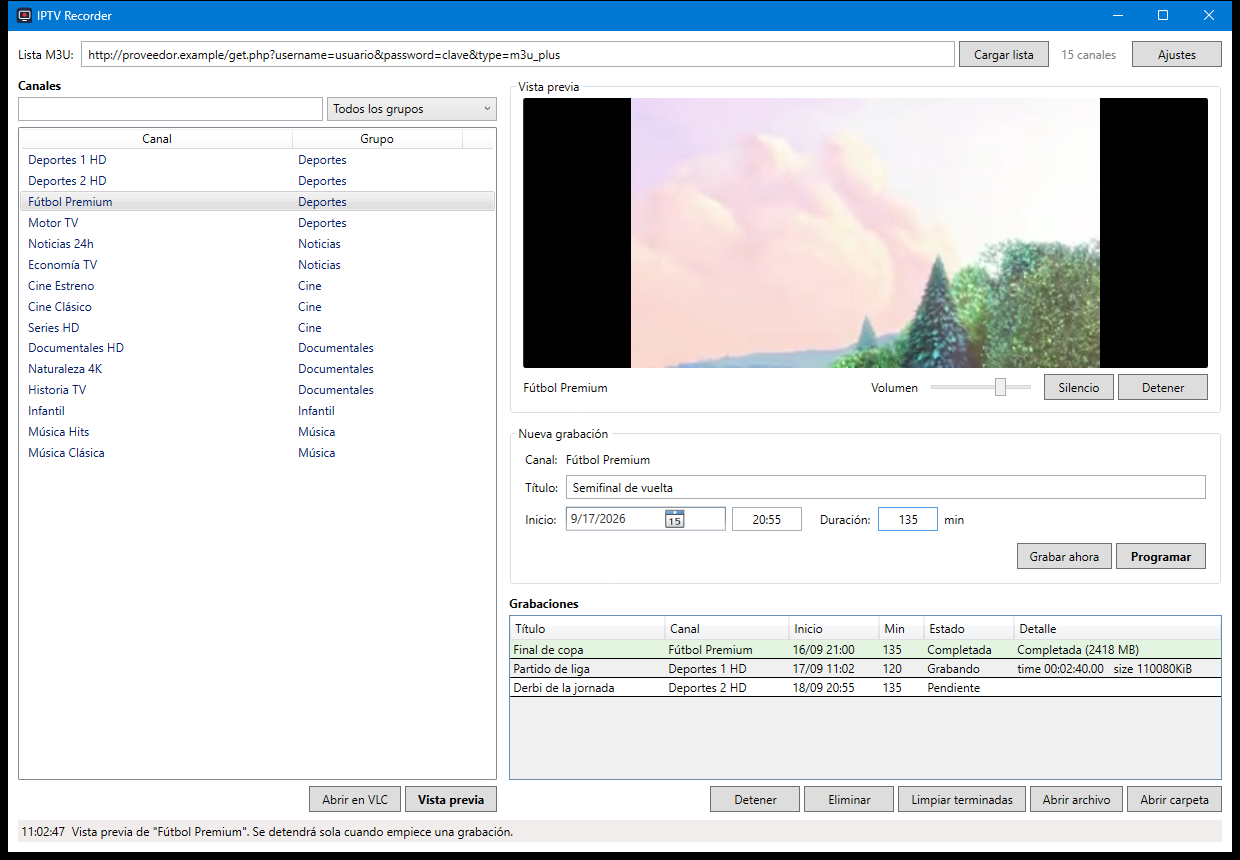
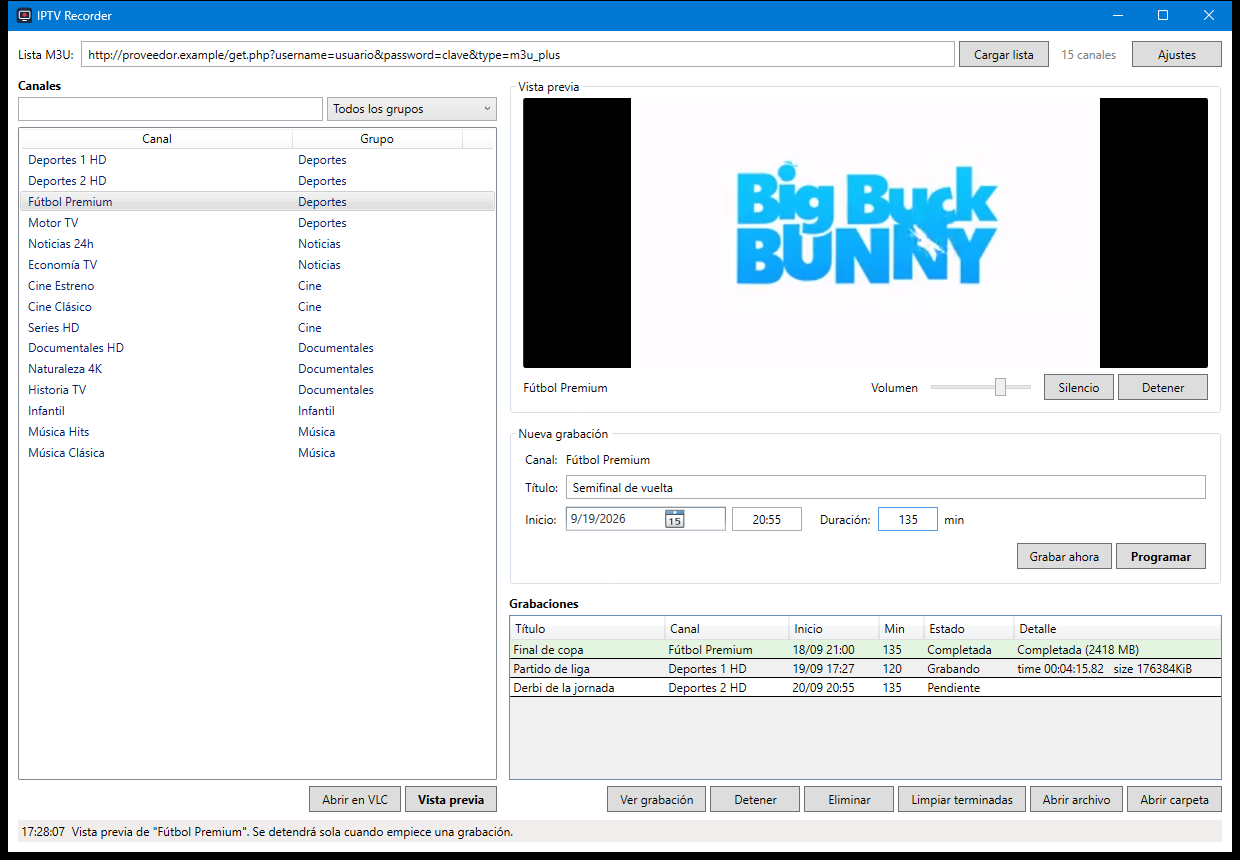
Record past the scheduled end time
Matches run long. A new end margin, 10 minutes by default, is added to the
requested duration when computing how long ffmpeg records, so the duration
the user types stays the length of the event. Scheduling now reports the
real stop time in the status bar.

Screenshots refreshed: they predated the watch-recording button.

diff --git a/Strings/Strings.es.xaml b/Strings/Strings.es.xaml
@@ -71,6 +71,7 @@
     <sys:String x:Key="Msg_BadDateTime">Indica fecha y hora válidas (por ejemplo 20:55).</sys:String>
     <sys:String x:Key="Msg_TimePassed">Esa hora ya ha pasado.</sys:String>
     <sys:String x:Key="Status_Scheduled">Programada "{0}" para el {1} a las {2}</sys:String>
+    <sys:String x:Key="Status_ScheduledTail">Programada "{0}" para el {1} a las {2}. Se grabará hasta las {3} por el margen final.</sys:String>
     <sys:String x:Key="Status_Stopping">Deteniendo grabación...</sys:String>
     <sys:String x:Key="Log_CancelledByUser">Cancelada por el usuario</sys:String>
     <sys:String x:Key="Msg_StopBeforeDelete">Detén la grabación antes de eliminarla.</sys:String>
@@ -125,12 +126,15 @@
     <sys:String x:Key="Set_UA_Tip">Algunos proveedores solo aceptan reproductores conocidos</sys:String>
     <sys:String x:Key="Set_Lead">Empezar antes (segundos):</sys:String>
     <sys:String x:Key="Set_Lead_Tip">Margen para que el stream enganche antes de que empiece el partido</sys:String>
+    <sys:String x:Key="Set_Tail">Margen al final (minutos):</sys:String>
+    <sys:String x:Key="Set_Tail_Tip">Minutos extra que se graban después de la hora de fin, para cubrir descuentos y prórrogas. 0 para desactivarlo.</sys:String>
+    <sys:String x:Key="Msg_TailRange">El margen final debe estar entre 0 y 120 minutos.</sys:String>
     <sys:String x:Key="Set_Language">Idioma:</sys:String>
     <sys:String x:Key="Lang_Auto">Automático (sistema)</sys:String>
     <sys:String x:Key="Set_Convert">Convertir a MP4 al terminar (sin recodificar, tarda unos segundos)</sys:String>
     <sys:String x:Key="Set_Tray">Al cerrar o minimizar, seguir en la bandeja del sistema</sys:String>
     <sys:String x:Key="Set_Autostart">Iniciar con Windows (en la bandeja)</sys:String>
-    <sys:String x:Key="Set_PreventSleep">Impedir la suspensión al grabar y despertar el equipo para las grabaciones programadas</sys:String>
+    <sys:String x:Key="Set_PreventSleep">Impedir la suspensión y despertar el equipo para grabar</sys:String>
     <sys:String x:Key="Set_PreventSleep_Tip">La pantalla puede apagarse igualmente. Despertar el equipo requiere que el plan de energía permita los temporizadores de reactivación.</sys:String>
     <sys:String x:Key="Btn_Cancel">Cancelar</sys:String>
     <sys:String x:Key="Btn_Save">Guardar</sys:String>

diff --git a/Strings/Strings.en.xaml b/Strings/Strings.en.xaml
@@ -71,6 +71,7 @@
     <sys:String x:Key="Msg_BadDateTime">Enter a valid date and time (for example 20:55).</sys:String>
     <sys:String x:Key="Msg_TimePassed">That time has already passed.</sys:String>
     <sys:String x:Key="Status_Scheduled">Scheduled "{0}" for {1} at {2}</sys:String>
+    <sys:String x:Key="Status_ScheduledTail">Scheduled "{0}" for {1} at {2}. It will record until {3} because of the end margin.</sys:String>
     <sys:String x:Key="Status_Stopping">Stopping recording...</sys:String>
     <sys:String x:Key="Log_CancelledByUser">Cancelled by the user</sys:String>
     <sys:String x:Key="Msg_StopBeforeDelete">Stop the recording before deleting it.</sys:String>
@@ -125,12 +126,15 @@
     <sys:String x:Key="Set_UA_Tip">Some providers only accept well-known players</sys:String>
     <sys:String x:Key="Set_Lead">Start early (seconds):</sys:String>
     <sys:String x:Key="Set_Lead_Tip">Margin so the stream connects before the match starts</sys:String>
+    <sys:String x:Key="Set_Tail">End margin (minutes):</sys:String>
+    <sys:String x:Key="Set_Tail_Tip">Extra minutes recorded after the end time, to cover stoppage time and extra time. 0 disables it.</sys:String>
+    <sys:String x:Key="Msg_TailRange">The end margin must be between 0 and 120 minutes.</sys:String>
     <sys:String x:Key="Set_Language">Language:</sys:String>
     <sys:String x:Key="Lang_Auto">Automatic (system)</sys:String>
     <sys:String x:Key="Set_Convert">Convert to MP4 when finished (no re-encoding, takes a few seconds)</sys:String>
     <sys:String x:Key="Set_Tray">Keep running in the system tray when closed or minimized</sys:String>
     <sys:String x:Key="Set_Autostart">Start with Windows (in the tray)</sys:String>
-    <sys:String x:Key="Set_PreventSleep">Prevent sleep while recording and wake the computer for scheduled recordings</sys:String>
+    <sys:String x:Key="Set_PreventSleep">Prevent sleep and wake the computer to record</sys:String>
     <sys:String x:Key="Set_PreventSleep_Tip">The screen can still turn off. Waking the computer requires wake timers to be allowed in the power plan.</sys:String>
     <sys:String x:Key="Btn_Cancel">Cancel</sys:String>
     <sys:String x:Key="Btn_Save">Save</sys:String>

diff --git a/SettingsWindow.xaml b/SettingsWindow.xaml
@@ -63,8 +63,11 @@
         <TextBox x:Name="UserAgentBox" Grid.Row="4" Grid.Column="1" Grid.ColumnSpan="2" ToolTip="{DynamicResource Set_UA_Tip}"/>
 
         <TextBlock Grid.Row="5" Text="{DynamicResource Set_Lead}"/>
-        <TextBox x:Name="LeadBox" Grid.Row="5" Grid.Column="1" Width="80" HorizontalAlignment="Left" TextAlignment="Center"
-                 ToolTip="{DynamicResource Set_Lead_Tip}"/>
+        <StackPanel Grid.Row="5" Grid.Column="1" Grid.ColumnSpan="2" Orientation="Horizontal">
+            <TextBox x:Name="LeadBox" Width="80" TextAlignment="Center" ToolTip="{DynamicResource Set_Lead_Tip}"/>
+            <TextBlock Text="{DynamicResource Set_Tail}" Margin="20,0,10,0"/>
+            <TextBox x:Name="TailBox" Width="80" TextAlignment="Center" ToolTip="{DynamicResource Set_Tail_Tip}"/>
+        </StackPanel>
 
         <CheckBox x:Name="ConvertBox" Grid.Row="6" Grid.Column="1" Grid.ColumnSpan="2" Content="{DynamicResource Set_Convert}"/>
         <CheckBox x:Name="TrayBox" Grid.Row="7" Grid.Column="1" Grid.ColumnSpan="2" Content="{DynamicResource Set_Tray}"/>

diff --git a/SettingsWindow.xaml.cs b/SettingsWindow.xaml.cs
@@ -30,6 +30,7 @@ public partial class SettingsWindow : Window
         OutputBox.Text = current.OutputFolder;
         UserAgentBox.Text = current.UserAgent;
         LeadBox.Text = current.LeadSeconds.ToString();
+        TailBox.Text = current.TailMinutes.ToString();
         ConvertBox.IsChecked = current.ConvertToMp4;
         TrayBox.IsChecked = current.MinimizeToTray;
         AutostartBox.IsChecked = current.StartWithWindows;
@@ -96,6 +97,12 @@ public partial class SettingsWindow : Window
 
         if (!int.TryParse(LeadBox.Text.Trim(), out var lead) || lead < 0 || lead > 600) { Warn("Msg_LeadRange"); return; }
 
+        if (!int.TryParse(TailBox.Text.Trim(), out var tail) || tail < 0 || tail > RecordingScheduler.MaxTailMinutes)
+        {
+            Warn("Msg_TailRange");
+            return;
+        }
+
         Result = new AppSettings
         {
             M3uUrl = Result.M3uUrl,
@@ -104,6 +111,7 @@ public partial class SettingsWindow : Window
             OutputFolder = output,
             UserAgent = UserAgentBox.Text.Trim().Length > 0 ? UserAgentBox.Text.Trim() : new AppSettings().UserAgent,
             LeadSeconds = lead,
+            TailMinutes = tail,
             ConvertToMp4 = ConvertBox.IsChecked == true,
             MinimizeToTray = TrayBox.IsChecked == true,
             StartWithWindows = AutostartBox.IsChecked == true,

diff --git a/RecordingScheduler.cs b/RecordingScheduler.cs
@@ -155,6 +155,12 @@ public class RecordingScheduler : IDisposable
         return null;
     }
 
+    /// <summary>Hora a la que se detiene realmente la grabación, con el margen final.</summary>
+    public static DateTime EndWithTail(Recording r, AppSettings s)
+        => r.End.AddMinutes(Math.Clamp(s.TailMinutes, 0, MaxTailMinutes));
+
+    public const int MaxTailMinutes = 120;
+
     private static string SafeFileName(string name)
     {
         var invalid = Path.GetInvalidFileNameChars();
@@ -192,7 +198,8 @@ public class RecordingScheduler : IDisposable
         var i = 1;
         while (File.Exists(tsFile)) tsFile = Path.Combine(s.OutputFolder, $"{baseName} ({i++}).ts");
 
-        var seconds = Math.Max(30, (int)(r.End - DateTime.Now).TotalSeconds);
+        // Se graba más allá de la hora de fin indicada: los partidos se alargan.
+        var seconds = Math.Max(30, (int)(EndWithTail(r, s) - DateTime.Now).TotalSeconds);
 
         var psi = new ProcessStartInfo
         {

diff --git a/MainWindow.xaml.cs b/MainWindow.xaml.cs
@@ -394,7 +394,10 @@ public partial class MainWindow : Window
         if (r == null) return;
         InsertSorted(r);
         Store.SaveRecordings(_recordings);
-        SetStatus(Loc.Get("Status_Scheduled", r.Title, r.Start.ToString("d"), r.Start.ToString("HH:mm")));
+        var stopAt = RecordingScheduler.EndWithTail(r, _settings);
+        SetStatus(stopAt > r.End
+            ? Loc.Get("Status_ScheduledTail", r.Title, r.Start.ToString("d"), r.Start.ToString("HH:mm"), stopAt.ToString("HH:mm"))
+            : Loc.Get("Status_Scheduled", r.Title, r.Start.ToString("d"), r.Start.ToString("HH:mm")));
         TitleBox.Clear();
         _scheduler.Tick();
     }

diff --git a/Models.cs b/Models.cs
@@ -86,6 +86,8 @@ public class AppSettings
         Path.Combine(Environment.GetFolderPath(Environment.SpecialFolder.MyVideos), "IPTV");
     public string UserAgent { get; set; } = "VLC/3.0.20 LibVLC/3.0.20";
     public int LeadSeconds { get; set; } = 60;
+    /// <summary>Minutos extra grabados al final, para cubrir descuentos y prórrogas.</summary>
+    public int TailMinutes { get; set; } = 10;
     public bool ConvertToMp4 { get; set; } = true;
     public bool MinimizeToTray { get; set; } = true;
     public bool StartWithWindows { get; set; } = false;

diff --git a/README.md b/README.md
@@ -29,7 +29,7 @@ Si compilas desde el código fuente, necesitas el [SDK de .NET 10](https://dotne
 2. Pega el enlace M3U arriba y pulsa **Cargar lista**. La lista queda en caché, no hace falta volver a cargarla cada vez.
 3. Busca el canal por nombre o filtra por grupo y selecciónalo.
 4. Para comprobar que es el canal correcto, pulsa **Vista previa** (o doble clic en el canal). Se reproduce dentro de la app, en el panel superior derecho, con control de volumen y silencio. **Abrir en VLC** lo abre en una ventana aparte si prefieres pantalla completa. La app detiene la vista previa sola cuando empieza una grabación, para no ocupar la conexión del proveedor.
-5. Rellena título, fecha, hora (formato 24h, por ejemplo `20:55`) y duración en minutos.
+5. Rellena título, fecha, hora (formato 24h, por ejemplo `20:55`) y duración en minutos. Pon la duración del partido: la app añade sola el margen del final.
 6. Pulsa **Programar**. O **Grabar ahora** para empezar al instante.
 
 La app debe seguir abierta a la hora de la grabación. Al cerrarla o minimizarla se queda en la bandeja del sistema y las grabaciones se hacen igualmente. Para cerrarla del todo: clic derecho en el icono de la bandeja y **Salir**.
@@ -47,6 +47,7 @@ Para añadir otro idioma: copia `Strings\Strings.en.xaml` como `Strings\Strings.
 - **Carpeta de salida**: por defecto `Vídeos\IPTV`.
 - **Reproductor**: el que se usa para "Abrir en VLC". Vacío significa VLC si está instalado, y si no, ffplay. La vista previa incrustada no depende de esto: usa LibVLC, que va incluido con la app.
 - **Empezar antes**: segundos de margen antes de la hora indicada (por defecto 60) para que el stream enganche.
+- **Margen al final**: minutos que se graban después de la hora de fin (por defecto 10), para que los descuentos y las prórrogas no corten el partido. Pon 0 para desactivarlo.
 - **Convertir a MP4**: al terminar, remuxea el `.ts` a `.mp4` sin recodificar y borra el `.ts`.
 - **Iniciar con Windows**: arranca minimizado en la bandeja al iniciar sesión, para no perder grabaciones.
 - **Impedir la suspensión**: bloquea la suspensión mientras se graba y despierta el equipo antes de una grabación programada. Activado por defecto.

diff --git a/TODO.md b/TODO.md
@@ -11,11 +11,13 @@ Lista de mejoras por orden de prioridad.
   puede desactivar en Ajustes. Si el plan de energía no permite los temporizadores de
   reactivación, la app lo avisa en la barra de estado. Ver `PowerManager.cs`.
 
-## Siguientes
+- [x] **2. Margen al final de la grabación**
+  Ajuste nuevo `TailMinutes`, 10 minutos por defecto. Se suma a la hora de fin al
+  calcular la duración que recibe ffmpeg, así que la duración que escribe el usuario
+  sigue siendo la del partido. Al programar, la barra de estado dice hasta qué hora se
+  grabará de verdad. Ver `RecordingScheduler.EndWithTail`.
 
-- [ ] **2. Margen al final de la grabación**
-  Existe margen de arranque (`LeadSeconds`) pero no de cierre. Los partidos se alargan
-  con descuentos y prórrogas y hoy hay que inflar la duración a mano.
+## Siguientes
 
 - [ ] **3. Aviso al terminar o al fallar**
   Notificación en la bandeja cuando una grabación acaba bien o falla, para no
@@ -31,13 +33,18 @@ Lista de mejoras por orden de prioridad.
 - [ ] **6. Favoritos**
   Marcar los canales que se usan de verdad y poder filtrar solo por ellos.
 
-- [ ] **7. Registro en archivo**
+- [ ] **7. Formato de fecha según el idioma**
+  Con la interfaz en español las fechas salen en formato estadounidense, porque el
+  idioma de la app no cambia la cultura de formato. Hay que fijarla en `Loc.Apply`
+  comprobando que no rompe el selector de fecha ni la lectura de la hora.
+
+- [ ] **8. Registro en archivo**
   Hoy un fallo solo deja una línea en la columna Detalle. Un log en disco permite
   saber qué pasó en una grabación de madrugada.
 
 ## Proyecto grande
 
-- [ ] **8. Guía de programación (EPG)**
+- [ ] **9. Guía de programación (EPG)**
   Todos los canales de la lista traen `tvg-id`, así que el proveedor tiene datos de
   programación. Permitiría elegir el partido de una guía en vez de escribir la hora a
   mano, rellenando canal, inicio y duración solos.
